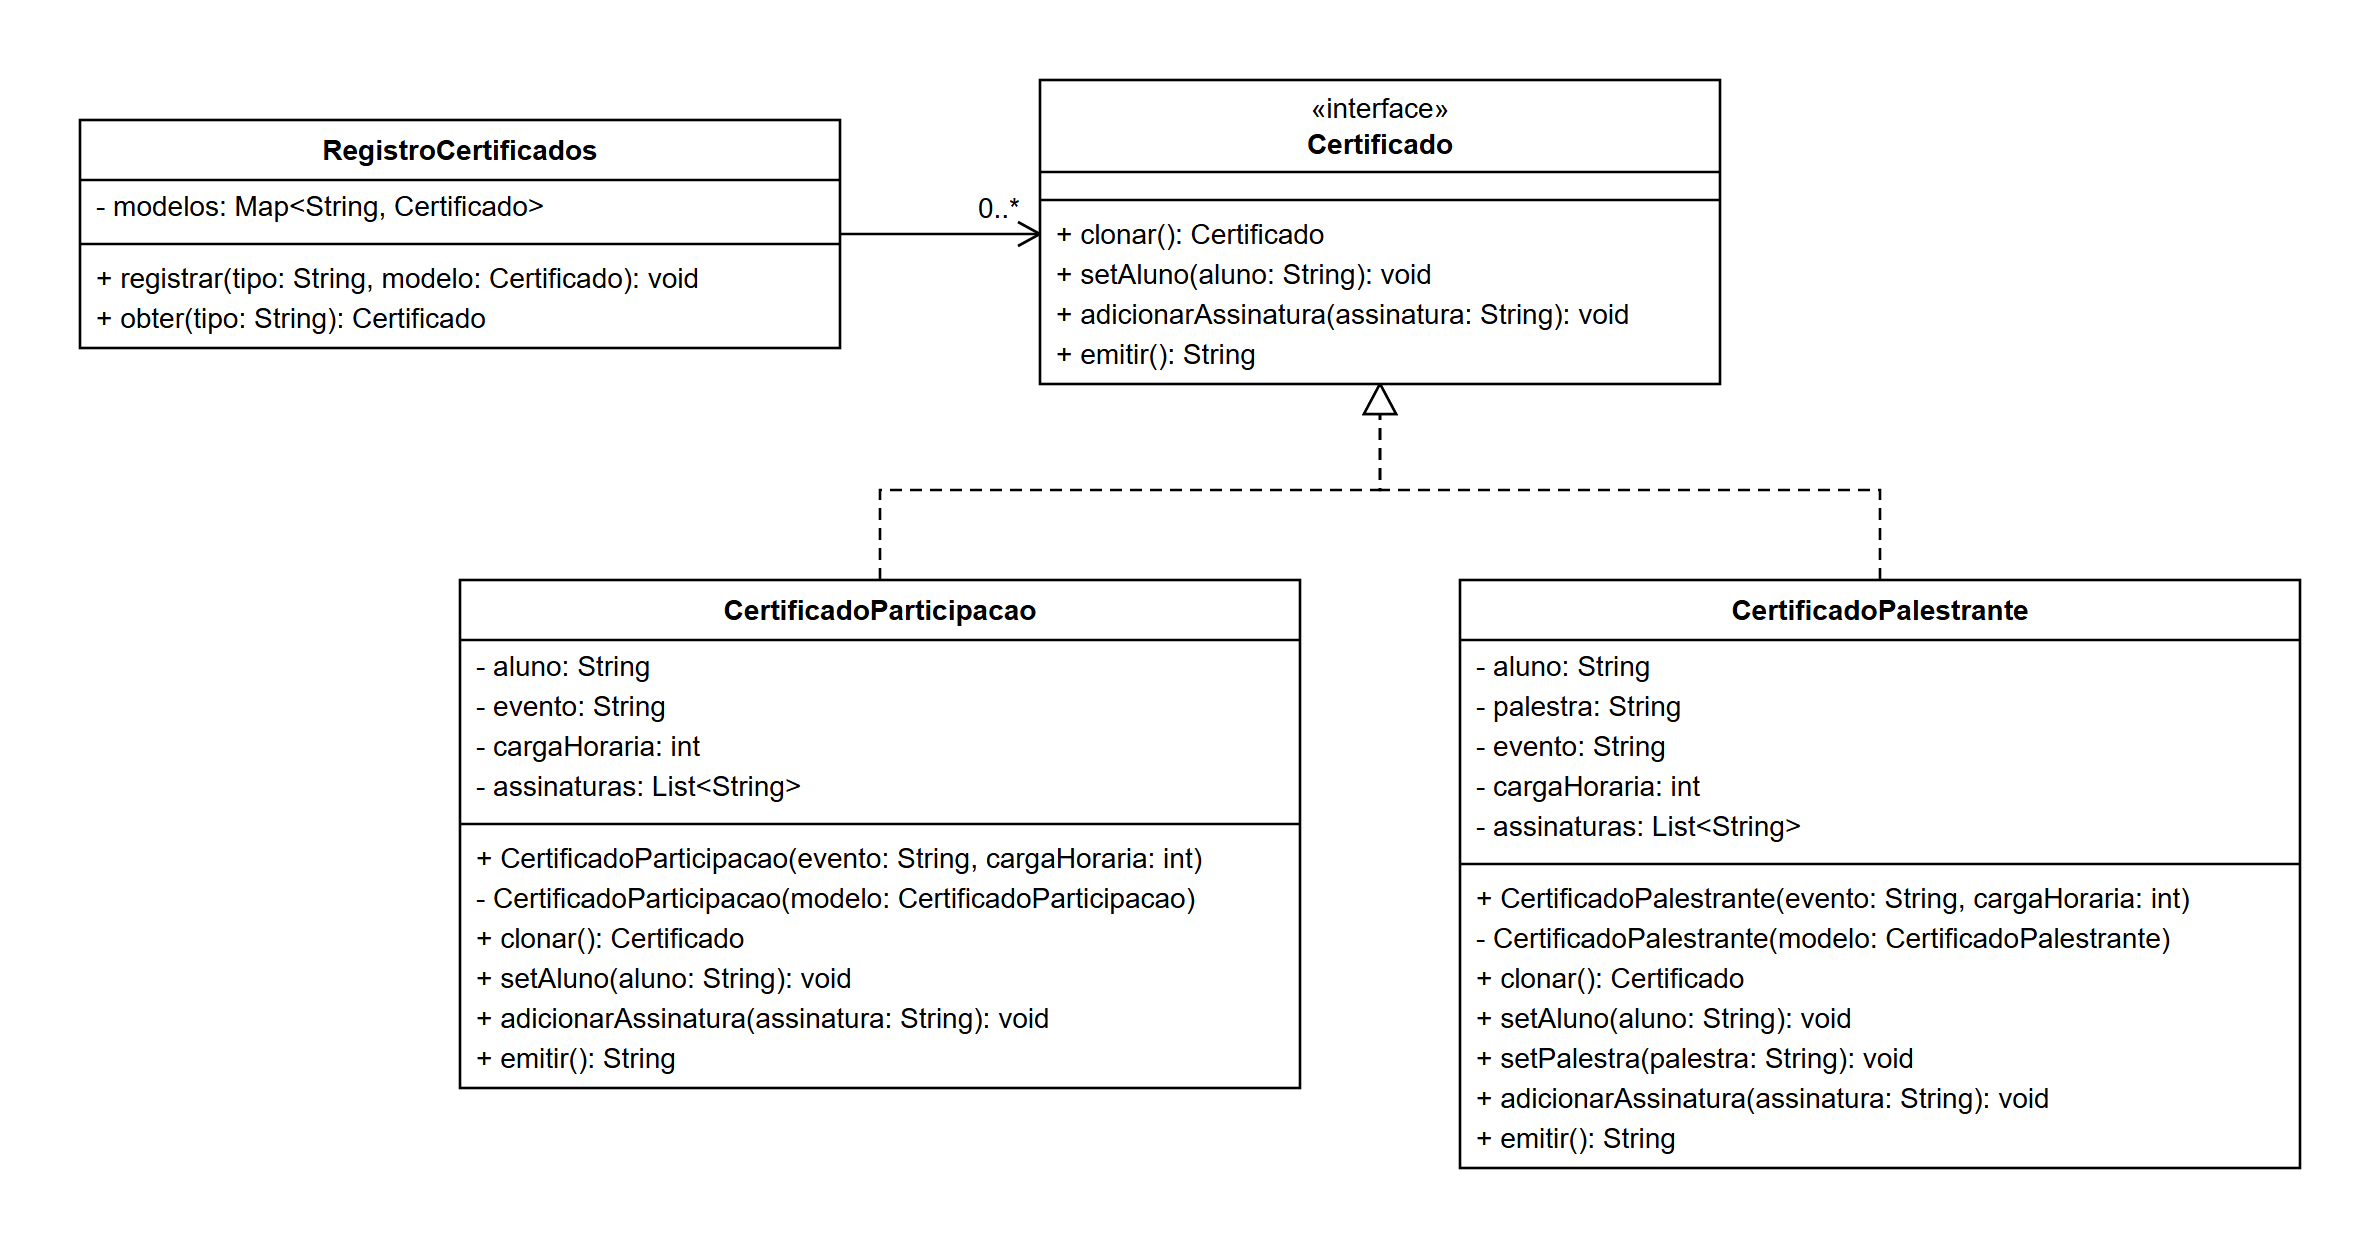
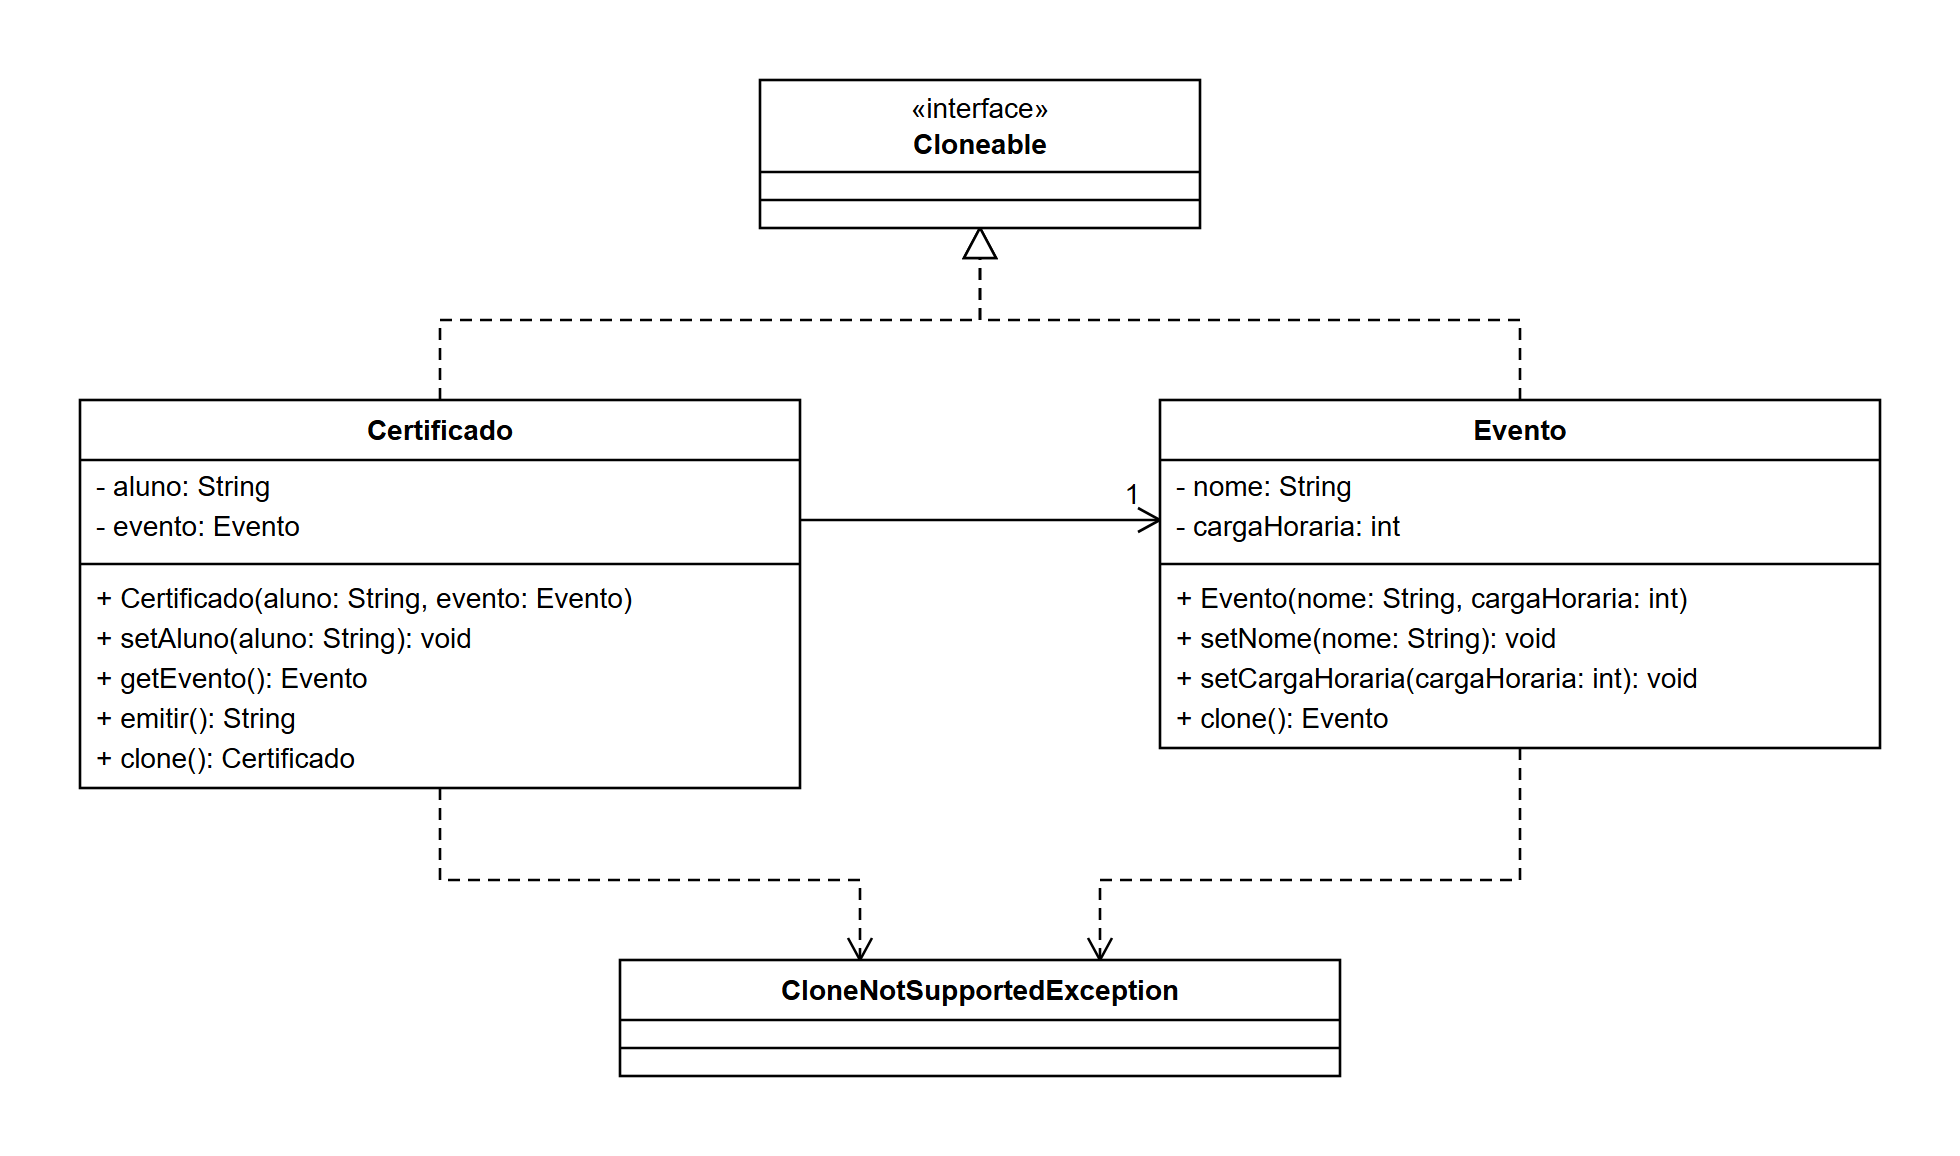
v2

Changed region(s): [[0.0311, 0.3426, 0.9648, 0.9654], [0.0311, 0.0623, 0.7158, 0.3426], [0.7158, 0.2491, 0.7469, 0.2803]]

diff --git a/src/test/java/prototype/CertificadoTest.java b/src/test/java/prototype/CertificadoTest.java
@@ -1,101 +1,64 @@
 package prototype;
 
-import org.junit.jupiter.api.BeforeEach;
 import org.junit.jupiter.api.Test;
-
-import java.util.List;
 
 import static org.junit.jupiter.api.Assertions.assertEquals;
 import static org.junit.jupiter.api.Assertions.assertNotSame;
-import static org.junit.jupiter.api.Assertions.assertNull;
-import static org.junit.jupiter.api.Assertions.assertThrows;
 
 class CertificadoTest {
 
-    private CertificadoParticipacao modelo;
-
-    @BeforeEach
-    void criarModelo() {
-        modelo = new CertificadoParticipacao("Semana da Computação UFJF", 20);
-        modelo.adicionarAssinatura("Coordenação do DCC");
-    }
-
     @Test
-    void deveCriarCloneComOsMesmosDadosDoModelo() {
-        CertificadoParticipacao clone = (CertificadoParticipacao) modelo.clonar();
+    void deveClonarCertificadoComOsMesmosDados() throws CloneNotSupportedException {
+        Certificado modelo = new Certificado("Ana", new Evento("Semana da Computação UFJF", 20));
+
+        Certificado clone = modelo.clone();
 
         assertNotSame(modelo, clone);
-        assertEquals("Semana da Computação UFJF", clone.getEvento());
-        assertEquals(20, clone.getCargaHoraria());
-        assertEquals(List.of("Coordenação do DCC"), clone.getAssinaturas());
+        assertEquals("Ana", clone.getAluno());
+        assertEquals("Semana da Computação UFJF", clone.getEvento().getNome());
+        assertEquals(20, clone.getEvento().getCargaHoraria());
     }
 
     @Test
-    void deveAlterarAlunoDoCloneSemAlterarModelo() {
-        Certificado clone = modelo.clonar();
+    void deveAlterarAlunoDoCloneSemAlterarOriginal() throws CloneNotSupportedException {
+        Certificado modelo = new Certificado("Ana", new Evento("Semana da Computação UFJF", 20));
 
-        clone.setAluno("Ana");
+        Certificado clone = modelo.clone();
+        clone.setAluno("Pedro");
 
-        assertNull(modelo.getAluno());
-        assertEquals("Ana", ((CertificadoParticipacao) clone).getAluno());
+        assertEquals("Ana", modelo.getAluno());
+        assertEquals("Pedro", clone.getAluno());
     }
 
     @Test
-    void deveCopiarListaDeAssinaturasDoModelo() {
-        Certificado clone = modelo.clonar();
+    void deveClonarTambemOEvento() throws CloneNotSupportedException {
+        Certificado modelo = new Certificado("Ana", new Evento("Semana da Computação UFJF", 20));
 
-        clone.adicionarAssinatura("Direção do ICE");
+        Certificado clone = modelo.clone();
 
-        assertEquals(List.of("Coordenação do DCC"), modelo.getAssinaturas());
-        assertEquals(List.of("Coordenação do DCC", "Direção do ICE"),
-                ((CertificadoParticipacao) clone).getAssinaturas());
+        assertNotSame(modelo.getEvento(), clone.getEvento());
     }
 
     @Test
-    void deveEmitirCertificadoDeParticipacao() {
-        Certificado certificado = modelo.clonar();
-        certificado.setAluno("Ana");
+    void deveAlterarEventoDoCloneSemAlterarOriginal() throws CloneNotSupportedException {
+        Certificado modelo = new Certificado("Ana", new Evento("Semana da Computação UFJF", 20));
 
-        assertEquals("Certificamos que Ana participou da Semana da Computação UFJF,"
-                + " com carga horária de 20 horas. Assinado por: Coordenação do DCC.", certificado.emitir());
+        Certificado clone = modelo.clone();
+        clone.getEvento().setNome("Maratona de Programação");
+        clone.getEvento().setCargaHoraria(8);
+
+        assertEquals("Semana da Computação UFJF", modelo.getEvento().getNome());
+        assertEquals(20, modelo.getEvento().getCargaHoraria());
     }
 
     @Test
-    void deveEmitirCertificadoDePalestrante() {
-        CertificadoPalestrante modeloPalestrante = new CertificadoPalestrante("Semana da Computação UFJF", 2);
-        modeloPalestrante.adicionarAssinatura("Coordenação do DCC");
+    void deveEmitirCertificadoDoClone() throws CloneNotSupportedException {
+        Certificado modelo = new Certificado("Ana", new Evento("Semana da Computação UFJF", 20));
 
-        CertificadoPalestrante certificado = (CertificadoPalestrante) modeloPalestrante.clonar();
-        certificado.setAluno("Pedro");
-        certificado.setPalestra("Padrões de Projeto na Prática");
+        Certificado clone = modelo.clone();
+        clone.setAluno("Pedro");
 
-        assertEquals("Certificamos que Pedro ministrou a palestra \"Padrões de Projeto na Prática\""
-                + " na Semana da Computação UFJF, com carga horária de 2 horas."
-                + " Assinado por: Coordenação do DCC.", certificado.emitir());
-        assertNull(modeloPalestrante.getPalestra());
-    }
-
-    @Test
-    void deveEntregarCopiasNovasDoRegistro() {
-        RegistroCertificados registro = new RegistroCertificados();
-        registro.registrar("participacao", modelo);
-
-        Certificado primeiro = registro.obter("participacao");
-        Certificado segundo = registro.obter("participacao");
-        primeiro.setAluno("Ana");
-        segundo.setAluno("Pedro");
-
-        assertNotSame(primeiro, segundo);
-        assertNotSame(modelo, primeiro);
         assertEquals("Certificamos que Pedro participou da Semana da Computação UFJF,"
-                + " com carga horária de 20 horas. Assinado por: Coordenação do DCC.", segundo.emitir());
-        assertNull(modelo.getAluno());
-    }
-
-    @Test
-    void deveLancarExcecaoParaModeloNaoRegistrado() {
-        RegistroCertificados registro = new RegistroCertificados();
-
-        assertThrows(IllegalArgumentException.class, () -> registro.obter("inexistente"));
+                + " com carga horária de 20 horas.", clone.emitir());
     }
 }

diff --git a/src/main/java/prototype/Certificado.java b/src/main/java/prototype/Certificado.java
@@ -1,12 +1,40 @@
 package prototype;
 
-public interface Certificado {
+public class Certificado implements Cloneable {
 
-    Certificado clonar();
+    private String aluno;
+    private Evento evento;
 
-    void setAluno(String aluno);
+    public Certificado(String aluno, Evento evento) {
+        this.aluno = aluno;
+        this.evento = evento;
+    }
 
-    void adicionarAssinatura(String assinatura);
+    public String getAluno() {
+        return aluno;
+    }
 
-    String emitir();
+    public void setAluno(String aluno) {
+        this.aluno = aluno;
+    }
+
+    public Evento getEvento() {
+        return evento;
+    }
+
+    public void setEvento(Evento evento) {
+        this.evento = evento;
+    }
+
+    public String emitir() {
+        return "Certificamos que " + aluno + " participou da " + evento.getNome()
+                + ", com carga horária de " + evento.getCargaHoraria() + " horas.";
+    }
+
+    @Override
+    public Certificado clone() throws CloneNotSupportedException {
+        Certificado certificadoClone = (Certificado) super.clone();
+        certificadoClone.evento = evento.clone();
+        return certificadoClone;
+    }
 }

diff --git a/src/main/java/prototype/Evento.java b/src/main/java/prototype/Evento.java
@@ -1,0 +1,33 @@
+package prototype;
+
+public class Evento implements Cloneable {
+
+    private String nome;
+    private int cargaHoraria;
+
+    public Evento(String nome, int cargaHoraria) {
+        this.nome = nome;
+        this.cargaHoraria = cargaHoraria;
+    }
+
+    public String getNome() {
+        return nome;
+    }
+
+    public void setNome(String nome) {
+        this.nome = nome;
+    }
+
+    public int getCargaHoraria() {
+        return cargaHoraria;
+    }
+
+    public void setCargaHoraria(int cargaHoraria) {
+        this.cargaHoraria = cargaHoraria;
+    }
+
+    @Override
+    public Evento clone() throws CloneNotSupportedException {
+        return (Evento) super.clone();
+    }
+}
